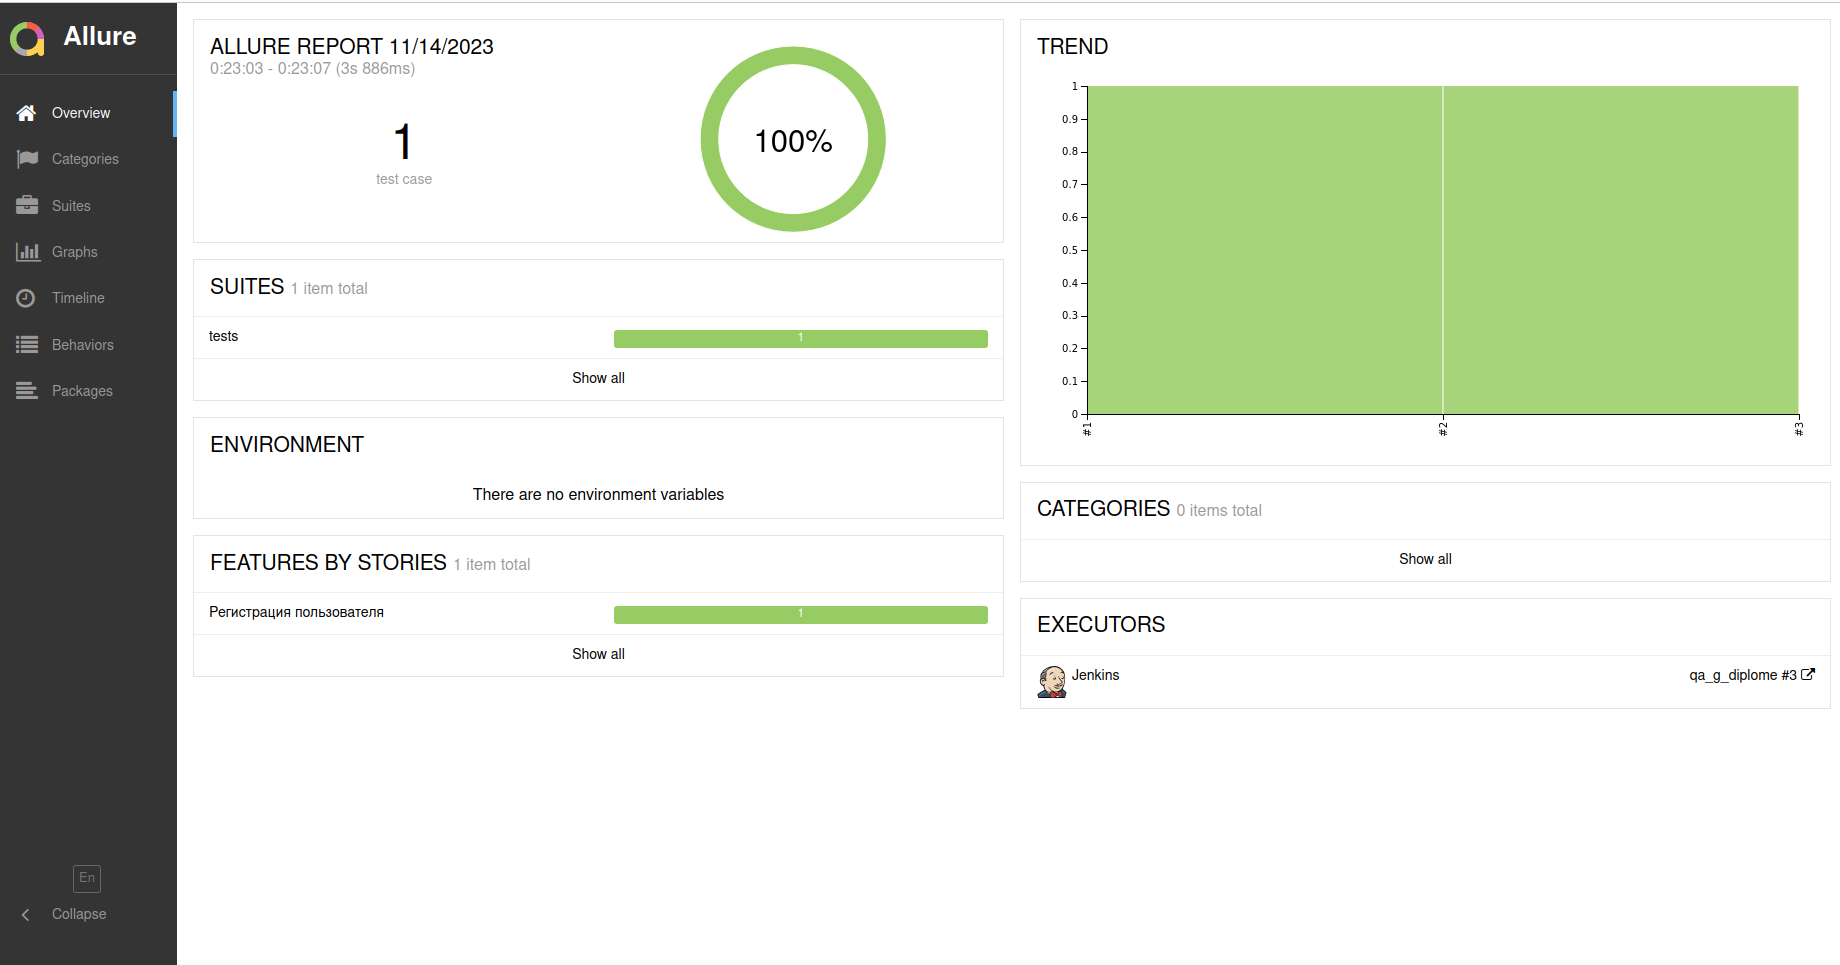
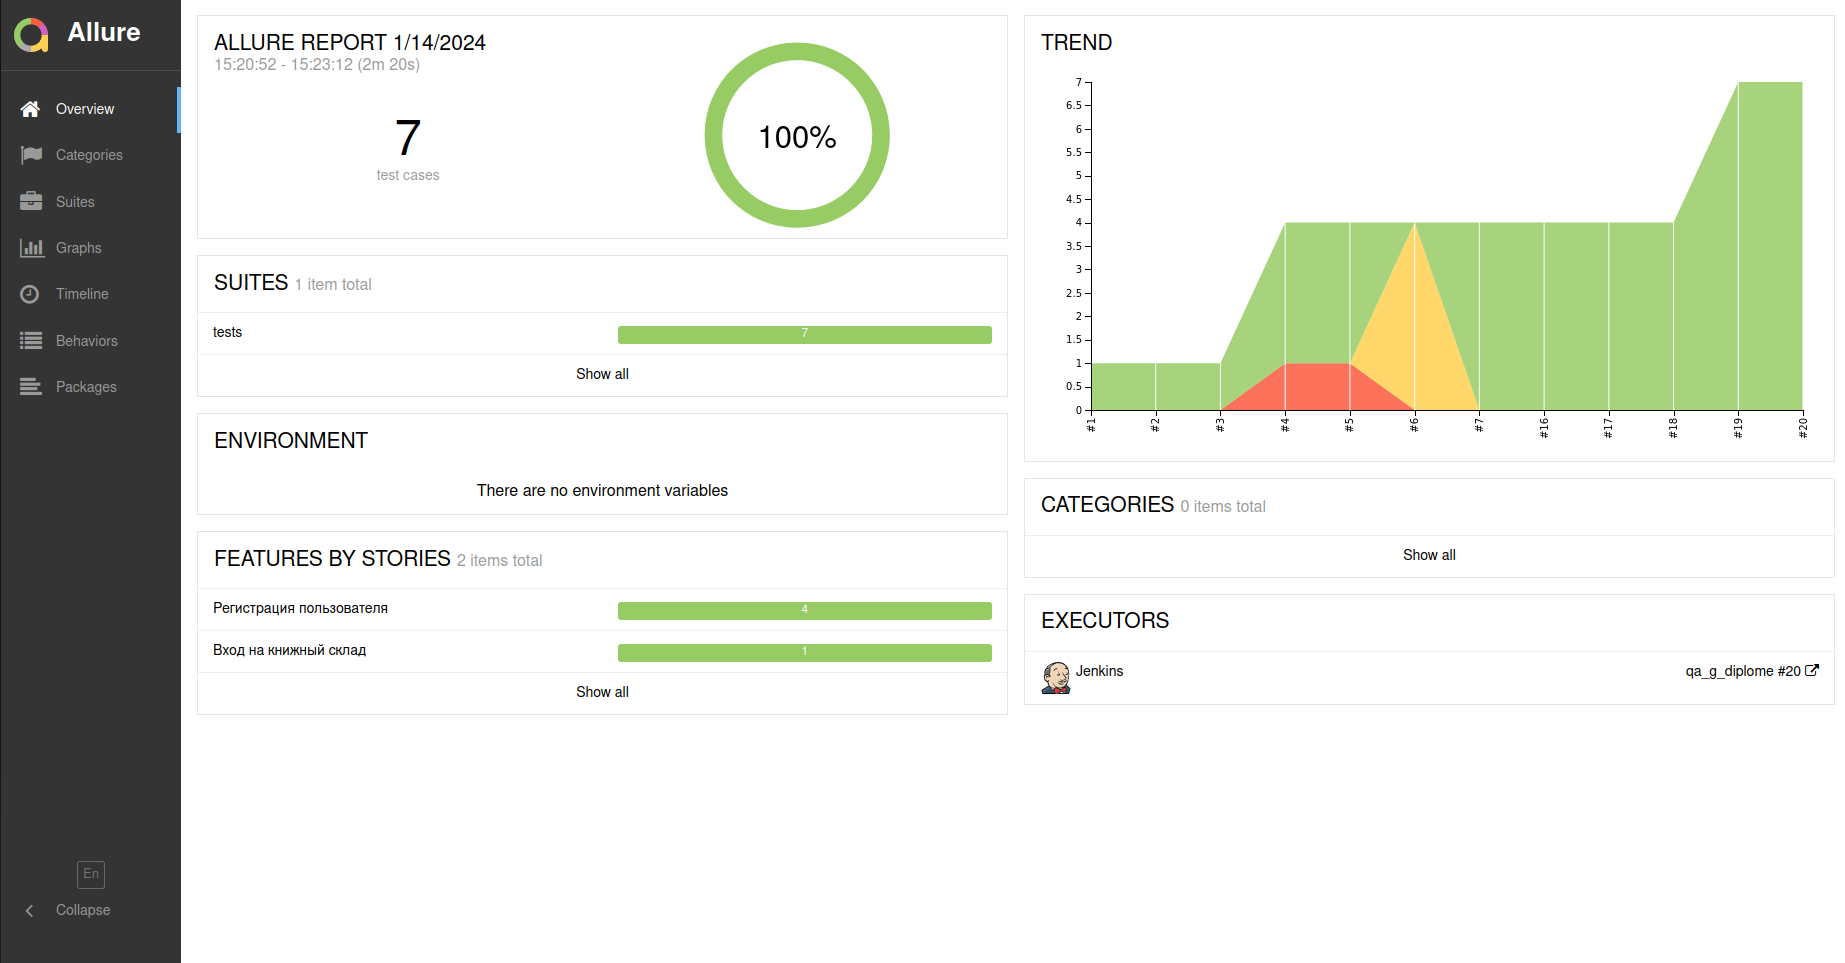
misprint fixed up

diff --git a/tests/test_create_new_book_store_user_without_data.py b/tests/test_create_new_book_store_user_without_data.py
@@ -6,8 +6,8 @@ from models.pages.book_store_page import BookStorePage
 def test_create_new_book_store_user_without_data():
     allure.dynamic.tag("web")
     allure.dynamic.severity(Severity.BLOCKER)
-    allure.dynamic.feature("Вход на книжный склад")
-    allure.dynamic.story("Вход зарегистрированным пользователем")
+    allure.dynamic.feature("Регистрация пользователя книжного склада")
+    allure.dynamic.story("Вход не зарегистрированным пользователем")
 
     book_store_page = BookStorePage()
 

diff --git a/tests/test_login_book_store_without_data.py b/tests/test_login_book_store_without_data.py
@@ -8,7 +8,7 @@ def test_login_book_store_without_data():
     allure.dynamic.tag("web")
     allure.dynamic.severity(Severity.BLOCKER)
     allure.dynamic.feature("Вход на книжный склад")
-    allure.dynamic.story("Вход зарегистрированным пользователем")
+    allure.dynamic.story("Вход не зарегистрированным пользователем")
 
     book_store_page = BookStorePage()
 
